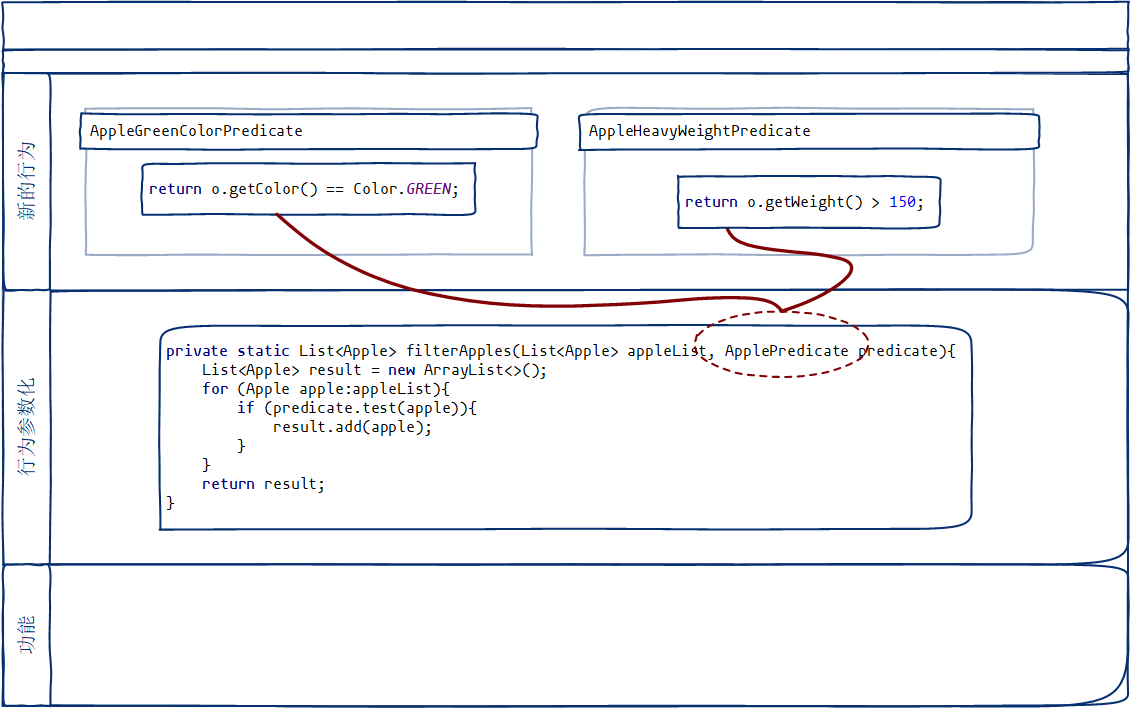
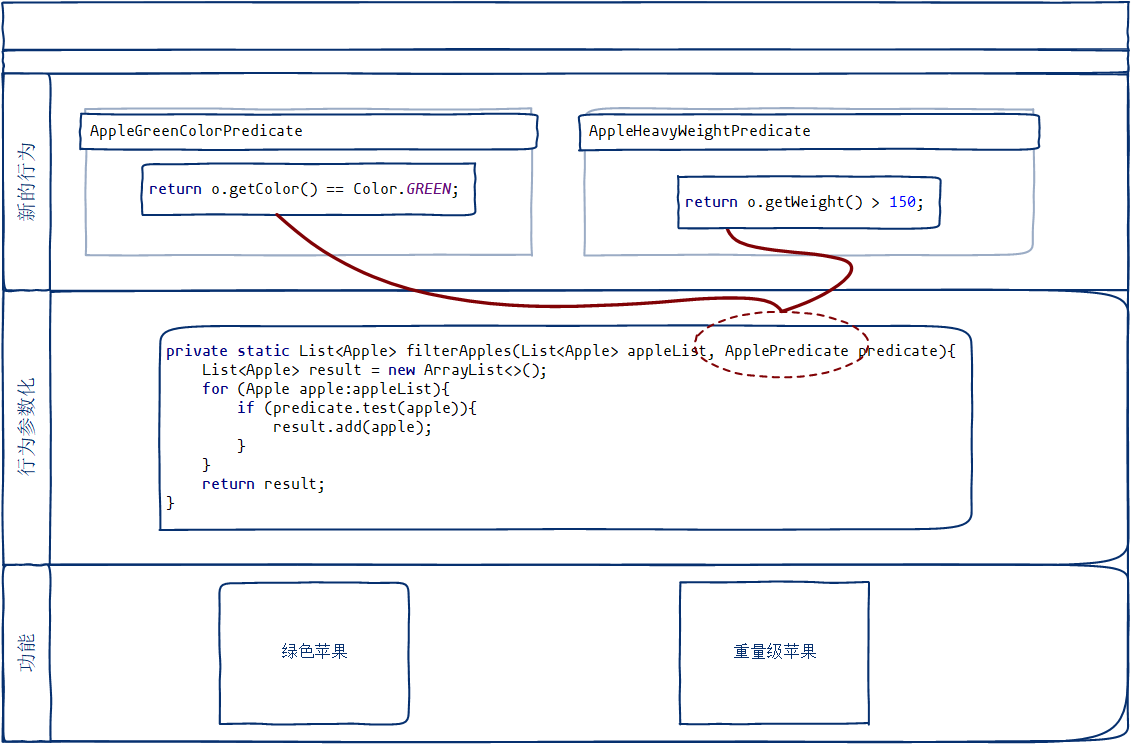
update 第二章 通过行为参数化传递代码.md

diff --git a/Java/Java8实战/第二章 通过行为参数化传递代码.md b/Java/Java8实战/第二章 通过行为参数化传递代码.md
@@ -95,7 +95,7 @@ public class AppleGreenColorPredicate implements ApplePredicate {
 }
 ```
 
-![](https://raw.githubusercontent.com/zhangzhaolin/StudyNotes/master/%E6%88%AA%E5%9B%BE/Java8%E5%AE%9E%E6%88%98/Character2/2.png)
+![](https://raw.githubusercontent.com/zhangzhaolin/StudyNotes/master/%E6%88%AA%E5%9B%BE/Java8%E5%AE%9E%E6%88%98/Character2/1.png)
 
 上述代码其实与“策略模式”相关，策略模式让你定义一组算法，把它们封装起来（称为策略），然后在运行时选择一个算法。那么该如何利用`ApplePredicate`的不同实现呢？你需要定义一个`filterApple`方法，让其接收`ApplePredicate`对象。
 
@@ -140,3 +140,4 @@ List<Apple> heavyAndRed = filterApples(inventory,new AppleRedAndHeavyPredicate()
 
 行为参数化的好处就是：可以把迭代要筛选的集合逻辑与对集合中每个元素应用的行为区分开来。这样你就可以重复的使用一种方法，给它不同的行为来达到不同的目的 ：
 
+![](https://raw.githubusercontent.com/zhangzhaolin/StudyNotes/master/%E6%88%AA%E5%9B%BE/Java8%E5%AE%9E%E6%88%98/Character2/2.png)
